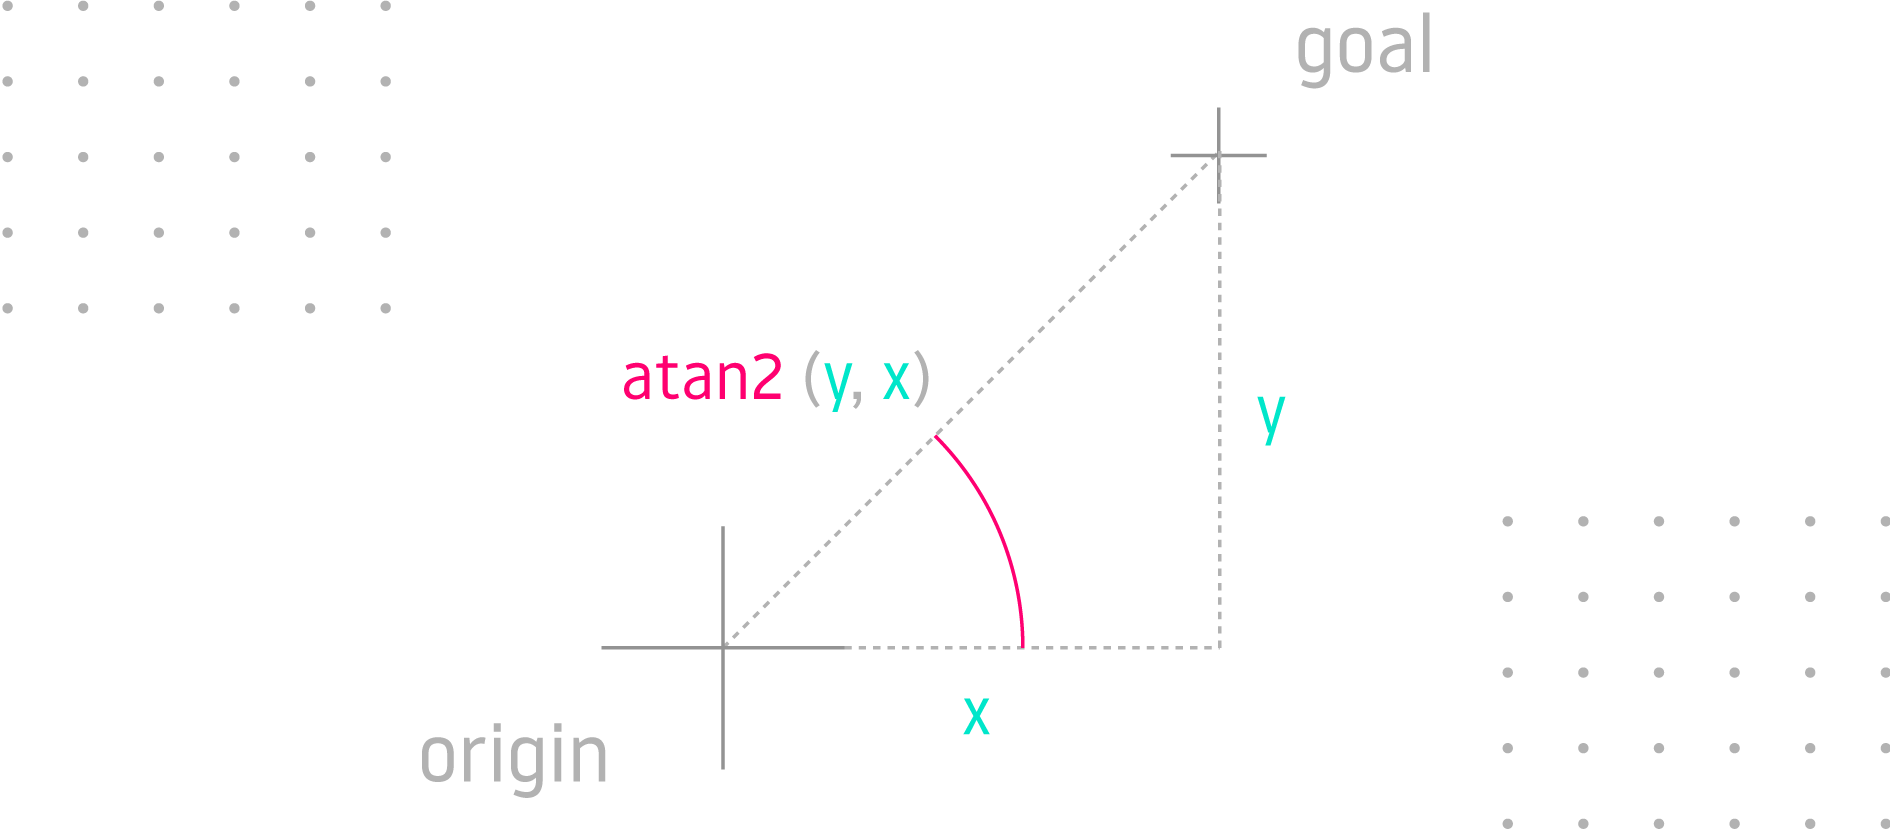
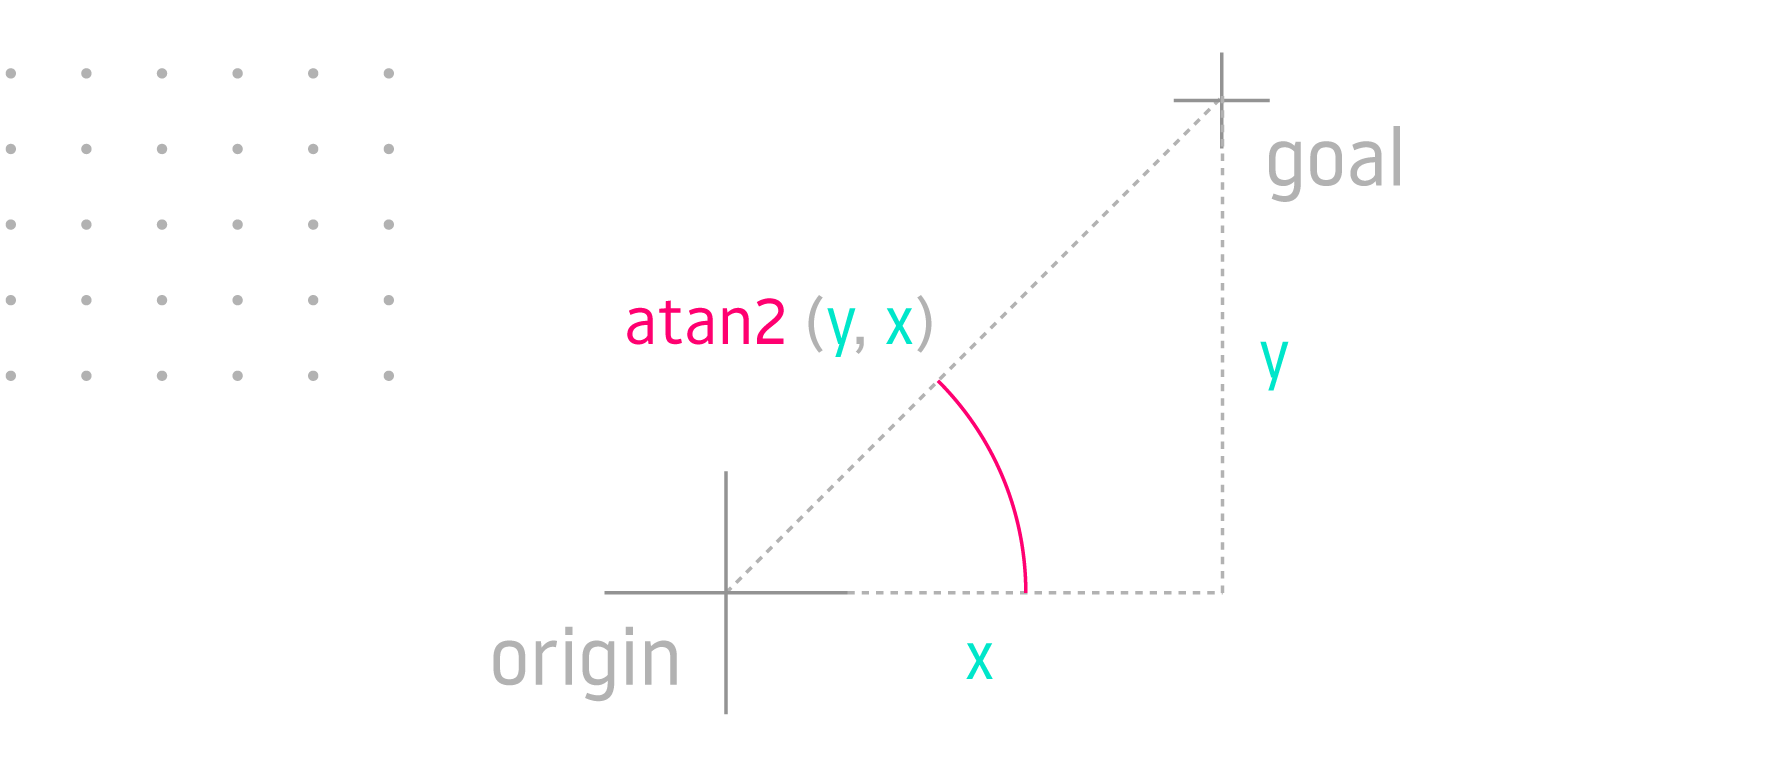
Streamlining and another trig section

diff --git a/src/articles/inverse-kinematics.md b/src/articles/inverse-kinematics.md
@@ -529,7 +529,7 @@ Like other numerical solvers, they use an iterative algorithm which takes time a
 
 It's useful to know the basic theory behind this type of solver, but we won't gain much by implementing our own since it would be subject to the same limitations as the KDL solver which works with [MoveIt](https://moveit.ros.org/) out of the box.
 
-## auto-gen analytical ik
+## ikfast
 
 Before we dive into analytical IK theory let's look at [IKFast](https://ros-planning.github.io/moveit_tutorials/doc/ikfast/ikfast_tutorial.html?highlight=ikfast) utility that auto-generates a solver based on the robot description and a [solution type](http://openrave.org/docs/latest_stable/openravepy/ikfast/#ik-types).
 
@@ -539,13 +539,13 @@ Install IKFast (and the MoveIt IKFast wrapper that simplifies working with this 
 
 An [example of a solver plugin](https://github.com/01binary/inverse-kinematics/tree/main/exercise19-analytical-ik-basic) auto-generated by *IKFast* for the [Basic robot arm](https://github.com/01binary/basic_velocity_control/tree/pretty/description) is provided in the companion repository. See the [solver implementation](https://github.com/01binary/inverse-kinematics/blob/main/exercise19-analytical-ik-basic/src/robot_arm_ikfast_solver.cpp).
 
-## analytical ik process
+## analytical ik
 
 In this section we will design an *analytical solver* in Matlab and export it to working C++ code by following these steps:
 
 1. Equate the product of all *joint matrices* with the *end-effector pose*.
 2. Multiply both sides by inverse of joint matrices to de-couple joint variables in the equations.
-3. The resulting matrix equation breaks down into a *system of 12 nonlinear equations* (one for each matrix cell).
+3. The resulting matrix equation breaks down into a *system of nonlinear equations* (one for each matrix cell).
 4. This system of equations is then solved for the joint variables.
 
 ## systems of equations
@@ -554,7 +554,7 @@ You may recall solving systems of linear equations in middle school.
 
 ![system of equations from alan wake 2](./images/inverse-kinematics-alanwake2.jpeg)
 
-Here's a refresher from *Alan Wake 2* where you must solve a system of equations to [access a locked container](https://www.youtube.com/watch?v=YodF3_v_Wn0):
+Here's a refresher from *Alan Wake 2* where you must solve a system of equations to [access a locked container](https://www.youtube.com/watch?v=pABHyFH8FQs):
 
 > There are 3 batteries (B1, B2, B3) with a combined charge of 1600 Amps.<br/>
 > B2 has 128 Amps more than B3.<br/>
@@ -564,7 +564,7 @@ Here's a refresher from *Alan Wake 2* where you must solve a system of equations
 We can model this in Matlab or Octave as follows:
 
 ```
-% Declare unknowns as symbols which are real numbers
+% Declare unknowns
 syms B1 B2 B3 real
 
 % Equation 1: All 3 batteries have a combined charge of 1600 Amps
@@ -580,10 +580,10 @@ E3 = B1 == B3 * 2
 Since `B1` and `B2` are both expressed in terms of `B3`, we can substitute them into `E1` by using [subs](https://www.mathworks.com/help/symbolic/subs.html) so that the sum is expressed only in terms of `B3`:
 
 ```
-% Substitute right-hand side of E3 (B3 * 2) into E1
+% Substitute right-hand side of E3 (which is B3 * 2) into E1
 E1 = subs(E1, B1, rhs(E3));
 
-% Substitute right-hand side of E2 (B3 + 128) into E1
+% Substitute right-hand side of E2 (which is B3 + 128) into E1
 E1 = subs(E1, B2, rhs(E2));
 ```
 
@@ -618,7 +618,7 @@ E2 = isolate(E2, B2)
 B2 == 496
 ```
 
-Watch the [video](https://www.youtube.com/watch?v=YodF3_v_Wn0) in the beginning of this section to confirm the protagonist is able to open the container by entering `496` in the code lock.
+Watch the [video](https://www.youtube.com/watch?v=pABHyFH8FQs) in the beginning of this section to confirm the protagonist is able to open the container by entering `496` in the code lock.
 
 Matlab and Octave include a symbolic solver, but it can only handle equations of certain complexity. It is able to solve this particular problem with no issue:
 
@@ -641,7 +641,7 @@ ans =
     B3: 368
 ```
 
-We could have used [solve](https://www.mathworks.com/help/symbolic/sym.solve.html) immediately after defining equations, but that won't work with more complex equations we encounter in the next section.
+We could have used [solve](https://www.mathworks.com/help/symbolic/sym.solve.html) immediately after defining these equations, but that won't work with more complex equations we encounter in the next section.
 
 ## analytical ik in matlab
 
@@ -867,39 +867,39 @@ This type of inverse kinematics solution uses *trigonometry* to solve for each j
 
 ## inverse tangent
 
-Given cartesian coordinates on a plane, you can solve for the angle with *inverse tangent*, or *arctangent*. The [2-argument inverse tangent](https://en.wikipedia.org/wiki/Atan2) is preferred because returns a *unique angle* for every input:
+Given cartesian coordinates on a plane, you can solve for the angle with *inverse tangent*, or *arctangent*. The [2-argument inverse tangent](https://en.wikipedia.org/wiki/Atan2) is preferred because it accounts for the quadrant and therefore returns a *unique angle* for every input:
+
+![geometric ik](./images/inverse-kinematics-atan2.png)
+
+Inverse tangent can be used to solve for the first joint angle θ (*theta*) of a robot arm mounted on a rotating platform:
 
 ```
 theta = atan2(y, x)
 ```
 
-![geometric ik](./images/inverse-kinematics-atan2.png)
+![geometric ik](./images/inverse-kinematics-atan2-app.png)
 
-This basic equation can be applied to solve for the first joint angle of a robot arm mounted on a rotating platform:
-
-![geometric ik](./images/inverse-kinematics-atan2-application.png)
-
-## arcsine
+## inverse sine
 
 What if the robot arm has joints which are offset from the centerline? This offset would translate into a *bias angle* added to the basic solution above:
 
-![bias angle application](./images/inverse-kinematics-bias-angle-application.png)
+![bias angle application](./images/inverse-kinematics-bias-angle.png)
 
 We can describe this problem as a right triangle on `XY` plane, with its first vertex at the robot *origin* and second vertex at the *goal*:
 
 + The *hypotenuse* is the distance to goal on `XY` plane.
-+ The *bias angle* we need to solve for is Ψ.
++ The *bias angle* we need to solve for is Ψ (*psi*).
 + The joint offset is *opposite* the *bias angle*.
 + We can use *inverse sine* to solve for this angle because we have the *opposite* side and the *hypotenuse*.
 
-Once we get the bias angle Ψ, we can take the angle to goal θ from the previous section and add the bias from angle to goal to get the joint angle Φ:
+Once we have the bias angle Ψ (*psi*), we can apply it to the angle to goal θ (*theta*) from the previous section to get the final joint angle Φ (*phi*):
 
 ```
 % Get angle to goal
 theta = atan2(y, x)
 
 % Get distance from origin to goal on XY plane
-distanceToGoalXY = sqrt(goal.x^2 + goal.y^2)
+distanceToGoalXY = sqrt(x^2 + y^2)
 
 % Sine of bias angle is joint offset over distance to goal
 sin(psi) == offset / distanceToGoalXY
@@ -913,38 +913,38 @@ phi = theta - psi
 
 ## law of cosines
 
-The *Law of Cosines* is often used for solving IK. The sides (*lower case*) are opposite from the angles (*upper case*) with the matching letter:
+The *Law of Cosines* can be used when several joints rotate on the same axis. The sides (*lower case*) are opposite from the angles (*upper case*):
 
 ![law of cosines](./images/inverse-kinematics-law-of-cosines.png)
 
 If you know all three *sides* you can solve for any of the *inner angles*:
 
-```
-cos(A) == (b^2 + c^2 - a^2) / 2 * b * c
-cos(B) == (a^2 + c^2 - b^2) / 2 * a * c
-cos(C) == (a^2 + b^2 - c^2) / 2 * a * b
-```
++ cos(A) = (b<sup>2</sup> + c<sup>2</sup> - a<sup>2</sup>) / 2bc
++ cos(B) = (a<sup>2</sup> + c<sup>2</sup> - b<sup>2</sup>) / 2ac
++ cos(C) = (a<sup>2</sup> + b<sup>2</sup> - c<sup>2</sup>) / 2ab
 
 A pair of links with a common joint can be modeled as a triangle with two sides that are link lengths and the third side that's a distance from first to last joint:
 
 ![law of cosines](./images/inverse-kinematics-law-of-cosines-shoulder.png)
 
-In the following two examples, we will use the law of cosines to compute shoulder and elbow angles of a 3-DOF robot arm.
+In the following two examples, we will use the law of cosines to compute the shoulder and elbow angles of a 3-DOF robot arm.
 
-First solve for the *inner shoulder angle* Θ:
+Solve for the *inner shoulder angle* θ corresponding to *angle B* in the triangle by isolating it in the equation cos(B) = (a<sup>2</sup> + c<sup>2</sup> - b<sup>2</sup>) / 2ac:
 
 ```
-theta == cos(B) == (a^2 + c^2 - b^2) / 2 * a * c
+theta = acos((a^2 + c^2 - b^2) / 2 * a * c)
 ```
 
-+ `B`: shoulder joint angle
-+ `A`: elbow joint angle
-+ `C`: wrist joint angle
++ `B`: inner shoulder angle
++ `A`: inner elbow angle
++ `C`: inner wrist angle
 + `c`: upper arm link length
 + `b`: forearm link length
 + `a`: the distance between shoulder joint and goal
 
-Next solve for the *shoulder to goal* angle β:
+The *inner shoulder angle* is not enough to determine the angle of the *shoulder joint*, since the triangle would be tilted depending on whether the goal is above or below the shoulder joint.
+
+Therefore we need to solve for the *shoulder to goal* angle β (*beta*), which describes the angle of that tilt:
 
 ```
 shoulderToGoalDistanceXY = sqrt(
@@ -957,10 +957,35 @@ sin(beta) == goalZ / shoulderToGoalDistanceXY
 beta == asin(goalZ, shoulderToGoalDistanceXY)
 ```
 
-Finally, solve for the *outer shoulder angle* Φ:
+This lets us solve for the *outer shoulder angle* Φ which is the joint angle:
 
 ```
 phi = theta + beta
+```
+
+Now we can use the same process to find the *elbow joint angle*:
+
+![law of cosines](./images/inverse-kinematics-law-of-cosines-elbow.png)
+
+If we label the *elbow inner angle* as *A*, then cos(A) = (b<sup>2</sup> + c<sup>2</sup> - a<sup>2</sup>) / 2bc, and to solve for *A* we take the inverse cosine of the right side:
+
+```
+theta == acos((b^2 + c^2 - a^2) / 2 * b * c)
+```
+
++ `B`: inner shoulder angle
++ `A`: inner elbow angle
++ `C`: inner wrist angle
++ `c`: upper arm link length
++ `b`: forearm link length
++ `a`: the distance between shoulder joint and goal
+
+The *inner elbow angle* is a part of the *elbow joint angle*. For this robot the elbow joint limits are `0` (elbow "straight") to `180°` or π (elbow "closed").
+
+Subtract the *inner elbow angle* θ from π to invert the angle in [`0` - `π`] range, then negate the result since the joint variable increases *clock-wise*, while angles in trigonometric equations are always described *counter-clockwise*.
+
+```
+phi = -(PI - theta3)
 ```
 
 ## fixed joint
